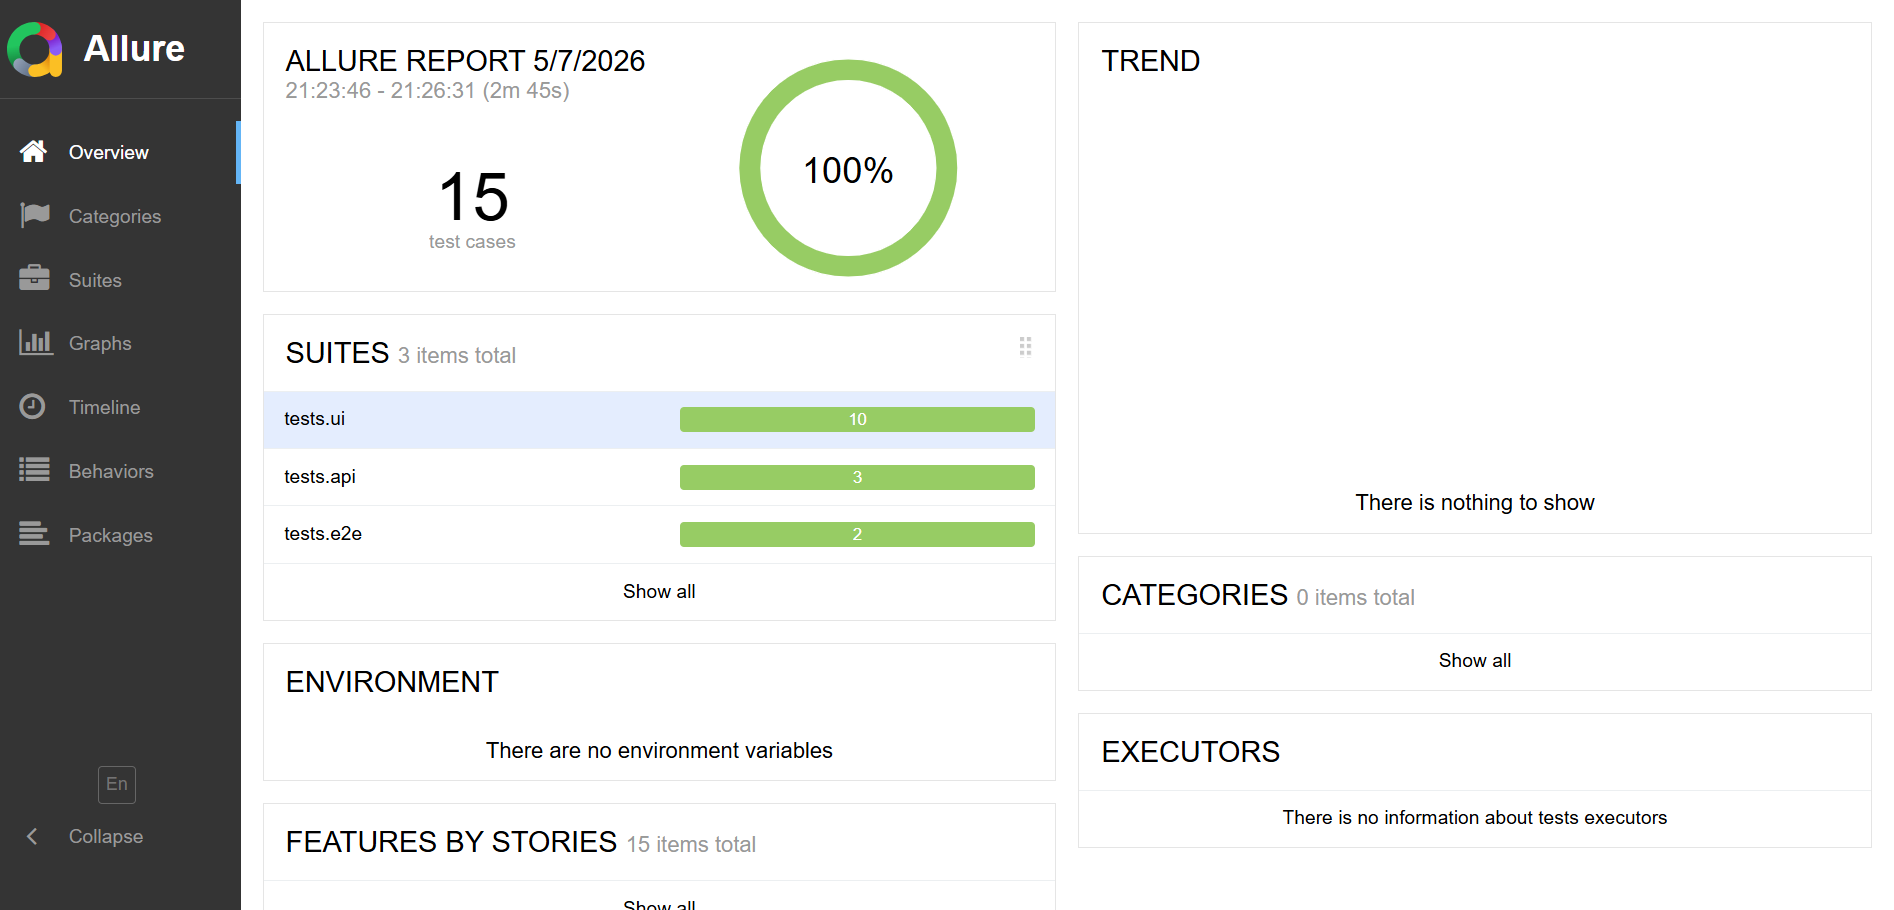
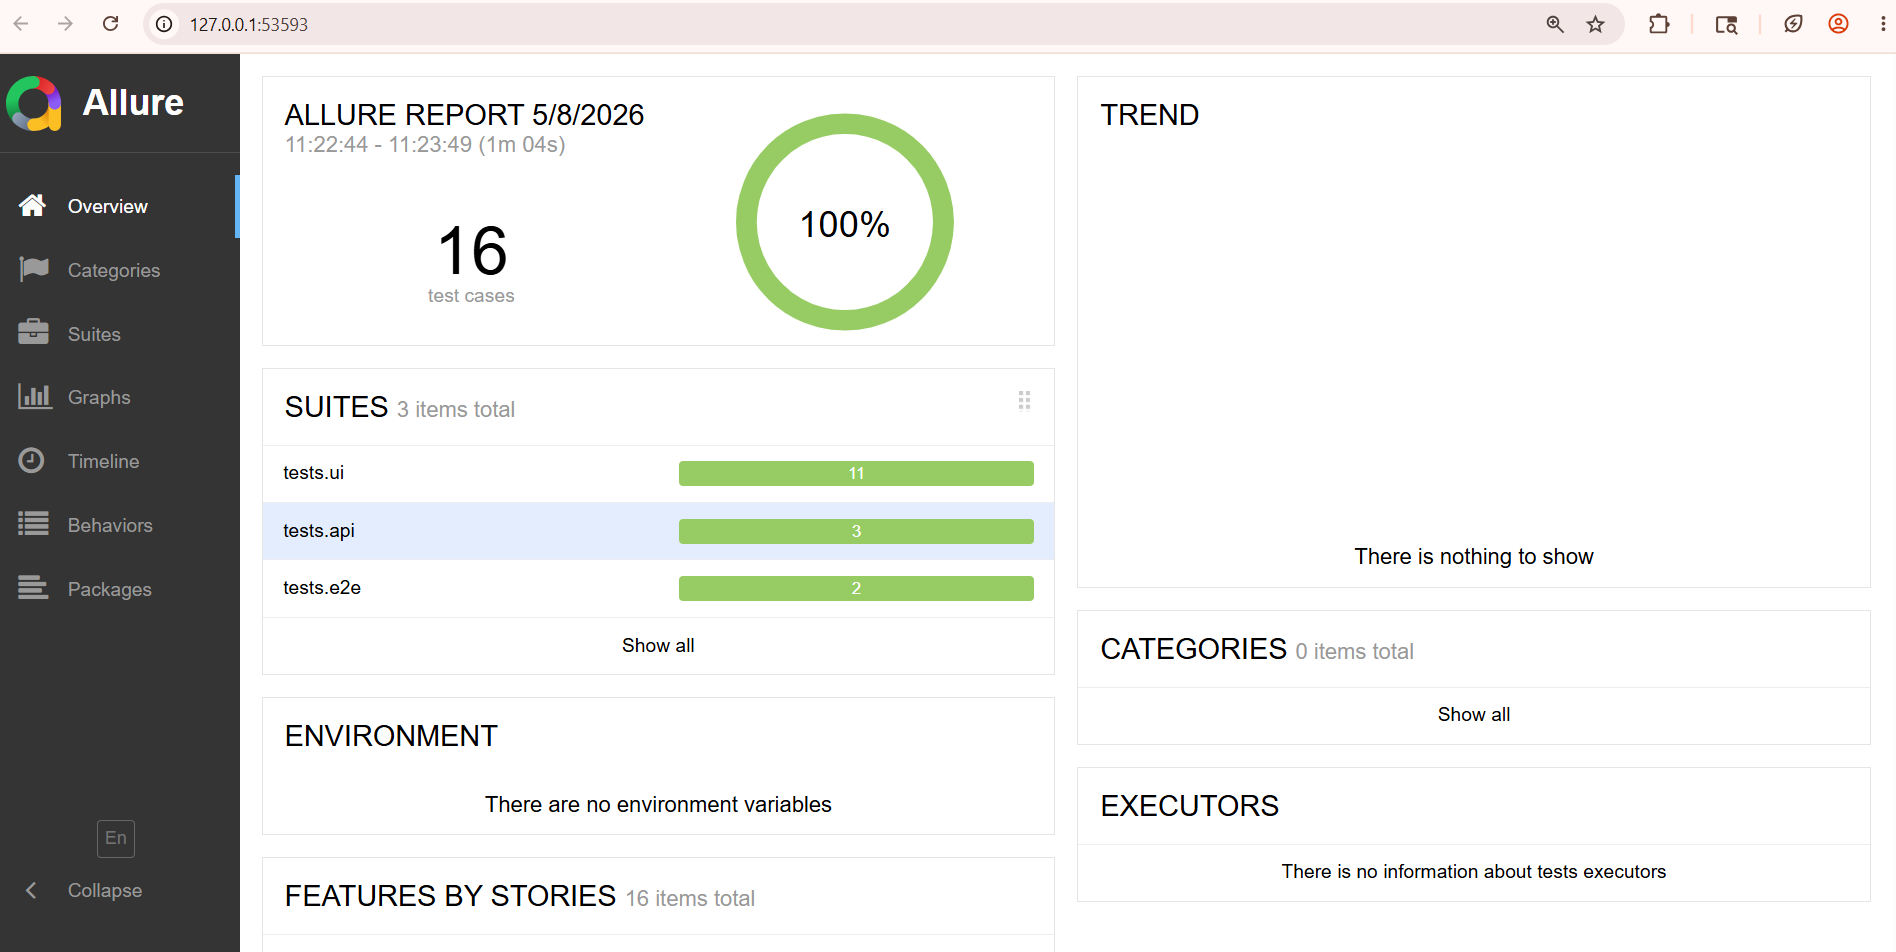
Updated project files

diff --git a/pages/base_page.py b/pages/base_page.py
@@ -1,5 +1,18 @@
-from selenium.webdriver.support.ui import WebDriverWait
-from selenium.webdriver.support import expected_conditions as EC
+import time
+
+from selenium.webdriver.support.ui import (
+    WebDriverWait
+)
+
+from selenium.webdriver.support import (
+    expected_conditions as EC
+)
+
+from selenium.common.exceptions import (
+    TimeoutException,
+    StaleElementReferenceException,
+    ElementClickInterceptedException
+)
 
 from config.environment import TIMEOUT
 
@@ -25,6 +38,34 @@ class BasePage:
             EC.visibility_of_element_located(locator)
         )
 
+    # This method is to find elements
+    # with primary and fallback locators.
+    def find_element_with_fallback(
+        self,
+        primary_locator,
+        fallback_locator=None
+    ):
+
+        try:
+
+            return self.wait.until(
+                EC.visibility_of_element_located(
+                    primary_locator
+                )
+            )
+
+        except TimeoutException:
+
+            if fallback_locator:
+
+                return self.wait.until(
+                    EC.visibility_of_element_located(
+                        fallback_locator
+                    )
+                )
+
+            raise
+
     def click(self, locator):
 
         element = self.wait.until(
@@ -41,6 +82,44 @@ class BasePage:
             element
         )
 
+    # Safe retry click handling
+    def safe_click_with_retry(
+        self,
+        locator,
+        retries=3
+    ):
+
+        for attempt in range(retries):
+
+            try:
+
+                element = self.wait.until(
+                    EC.element_to_be_clickable(
+                        locator
+                    )
+                )
+
+                self.driver.execute_script(
+                    "arguments[0].scrollIntoView(true);",
+                    element
+                )
+
+                self.driver.execute_script(
+                    "arguments[0].click();",
+                    element
+                )
+
+                return
+
+            except (
+                StaleElementReferenceException,
+                ElementClickInterceptedException
+            ):
+
+                if attempt == retries - 1:
+
+                    raise
+
     def type_text(self, locator, text):
 
         element = self.find_element(locator)
@@ -53,6 +132,28 @@ class BasePage:
 
         return self.find_element(locator).text
 
+    # Get element attribute values
+    def get_element_attribute(
+        self,
+        locator,
+        attribute_name
+):
+
+        element = self.find_element(
+            locator
+        )
+
+        return element.get_attribute(
+            attribute_name
+        )
+
+    # Check whether page is fully loaded
+    def is_page_loaded(self, driver):
+
+        return driver.execute_script(
+            "return document.readyState"
+        ) == "complete"
+
     # JavaScript page load wait
     def wait_for_page_load(self):
 
@@ -60,7 +161,23 @@ class BasePage:
             self.driver,
             TIMEOUT
         ).until(
-            lambda d: d.execute_script(
-                "return document.readyState"
-            ) == "complete"
+            self.is_page_loaded
+        )
+
+    # Measure page load performance
+    def measure_page_load_time(self):
+
+        start_time = time.time()
+
+        WebDriverWait(
+            self.driver,
+            TIMEOUT
+        ).until(
+            self.is_page_loaded
+        )
+
+        end_time = time.time()
+
+        return round(
+            end_time - start_time,2
         )

diff --git a/conftest.py b/conftest.py
@@ -4,44 +4,38 @@ import allure
 
 from datetime import datetime
 
-from selenium import webdriver
-from selenium.webdriver.chrome.service import Service
 
-from webdriver_manager.chrome import ChromeDriverManager
-
-
-@pytest.fixture
-def driver():
-
-    driver = webdriver.Chrome(
-        service=Service(
-            ChromeDriverManager().install()
-        )
-    )
-
-    driver.maximize_window()
-
-    yield driver
-
-    driver.quit()
+pytest_plugins = [
+    "fixtures.browser_fixture"
+]
 
 
 # Screenshot capture on failure
 @pytest.hookimpl(hookwrapper=True)
-def pytest_runtest_makereport(item, call):
+def pytest_runtest_makereport(
+    item,
+    call
+):
 
     outcome = yield
 
     report = outcome.get_result()
 
     # Capture screenshot only if test fails
-    if report.when == "call" and report.failed:
+    if (
+        report.when == "call"
+        and report.failed
+    ):
 
-        driver = item.funcargs.get("driver")
+        driver = item.funcargs.get(
+            "driver"
+        )
 
         if driver:
 
-            screenshots_dir = "screenshots"
+            screenshots_dir = (
+                "screenshots"
+            )
 
             os.makedirs(
                 screenshots_dir,
@@ -68,9 +62,11 @@ def pytest_runtest_makereport(item, call):
             allure.attach(
                 driver.get_screenshot_as_png(),
                 name=f"Screenshot_{timestamp}",
-                attachment_type=allure.attachment_type.PNG
+                attachment_type=
+                allure.attachment_type.PNG
             )
 
             print(
-                f"\nScreenshot saved: {screenshot_path}"
+                f"\nScreenshot saved: "
+                f"{screenshot_path}"
             )

diff --git a/fixtures/browser_fixture.py b/fixtures/browser_fixture.py
@@ -1,15 +1,39 @@
 import pytest
+
 from selenium import webdriver
-from selenium.webdriver.chrome.service import Service
-from webdriver_manager.chrome import ChromeDriverManager
+
+from selenium.webdriver.chrome.options import (
+    Options
+)
 
 
 @pytest.fixture
 def driver():
-    service = Service(ChromeDriverManager().install())
-    driver = webdriver.Chrome(service=service)
 
-    driver.maximize_window()
+    chrome_options = Options()
+
+    chrome_options.add_argument(
+        "--start-maximized"
+    )
+
+    chrome_options.add_argument(
+        "--no-sandbox"
+    )
+
+    chrome_options.add_argument(
+        "--disable-dev-shm-usage"
+    )
+
+    driver = webdriver.Remote(
+
+        command_executor=
+        "http://localhost:4444/wd/hub",
+
+        options=chrome_options,
+
+        keep_alive=True
+    )
+
     driver.implicitly_wait(5)
 
     yield driver

diff --git a/tests/api/test_get_notes_api.py b/tests/api/test_get_notes_api.py
@@ -12,15 +12,31 @@ def test_get_notes_api():
 
     response = notes_service.get_notes()
 
+    response_time = (
+        response.elapsed.total_seconds()
+    )
+
     allure.attach(
         response.text,
         name="GET Notes API Response",
         attachment_type=allure.attachment_type.JSON
     )
 
+    allure.attach(
+        str(response_time),
+        name="API Response Time",
+        attachment_type=allure.attachment_type.TEXT
+    )
+
+    print(
+        f"\nAPI Response Time: "
+        f"{response_time} seconds"
+    )
+
     assert response.status_code == 200
 
-    assert response.elapsed.total_seconds() < 10
+    # Performance validation
+    assert response_time < 10
 
     data = response.json()
 

diff --git a/tests/ui/test_ui_performance.py b/tests/ui/test_ui_performance.py
@@ -1,0 +1,38 @@
+import allure
+
+from pages.login_page import LoginPage
+
+from config.environment import (
+    TEST_EMAIL,
+    TEST_PASSWORD
+)
+
+
+def test_ui_page_load_performance(driver):
+
+    login_page = LoginPage(driver)
+
+    login_page.open_login_page()
+
+    page_load_time = (
+        login_page.measure_page_load_time()
+    )
+
+    allure.attach(
+        str(page_load_time),
+        name="UI Page Load Time",
+        attachment_type=allure.attachment_type.TEXT
+    )
+
+    print(
+        f"\nPage Load Time: "
+        f"{page_load_time} seconds"
+    )
+
+    # Basic performance validation
+    assert page_load_time < 5
+
+    login_page.login(
+        TEST_EMAIL,
+        TEST_PASSWORD
+    )
